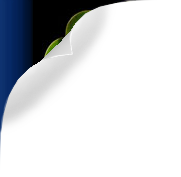
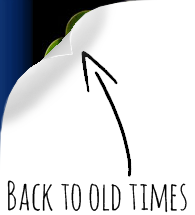
Fixup: get the arrow closer to the corner

diff --git a/static/css/eas-base.css b/static/css/eas-base.css
@@ -421,20 +421,11 @@ a#back-old-version {
     background-image: url('../img/back_to_old_version/corner_old_version.png');
     background-repeat: no-repeat;
     position: absolute;
-    width: 181px;
-    height: 177px;
+    width: 195px;
+    height: 215px;
     left: 0;
     top: 0;
 }
-
-a#back-old-version img{
-    position: relative;
-    width: 181px;
-    height: 177px;
-    margin-bottom: -400px;
-    margin-left: 60px;
-}
-
 
 a#back-old-version:hover {
     background-image: url('../img/back_to_old_version/corner_old_version_hover.png');

diff --git a/web/templates/base.html b/web/templates/base.html
@@ -107,9 +107,7 @@
 </head>
 
 <body class="background">
-    <a href="http://www.pickforme.net" id="back-old-version" class="visible-lg">
-        <img src="{% static 'img/back_to_old_version/old_version_text.png' %}">
-    </a>
+    <a href="http://www.pickforme.net" id="back-old-version" class="visible-lg"></a>
 {% block pre-content %}
 {% endblock pre-content %}
 <div id="wrapper" class="container">
